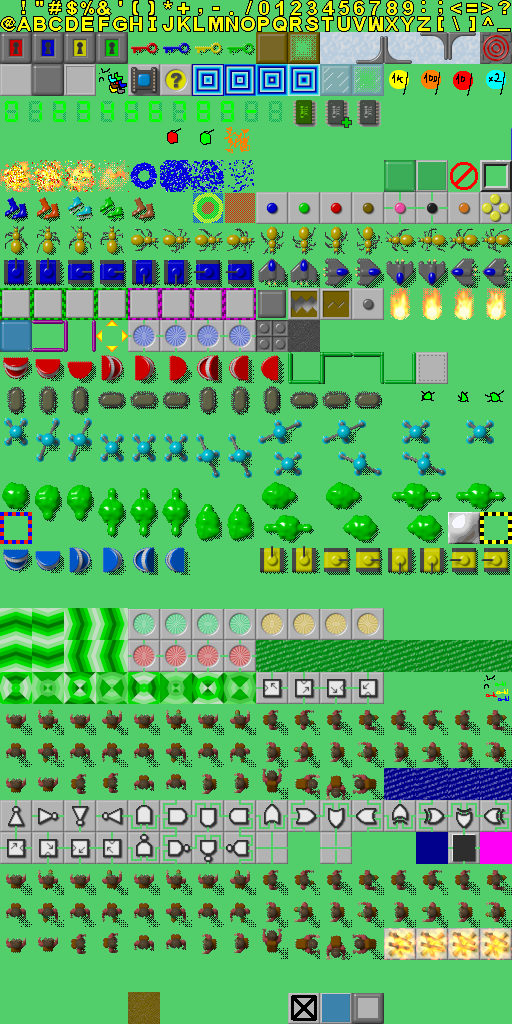
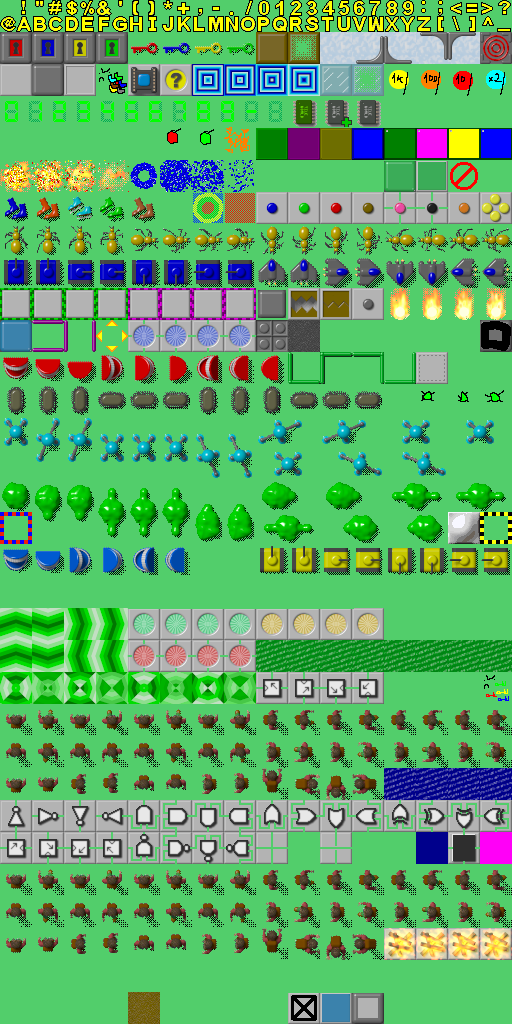
Add custom walls and floors

Changed region(s): [[0.5, 0.125, 1.0, 0.1875], [0.9375, 0.3125, 1.0, 0.3438]]

diff --git a/src/actors/walls.ts b/src/actors/walls.ts
@@ -17,6 +17,33 @@ export class Wall extends Actor {
 
 actorDB["wall"] = Wall
 
+// TODO Ghost blockage, TNT resistance
+export class SteelWall extends Actor {
+	id = "steelWall"
+	art: ActorArt = { actorName: "steelWall" }
+	get layer(): Layers {
+		return Layers.STATIONARY
+	}
+	blocks(): boolean {
+		return true
+	}
+}
+
+actorDB["steelWall"] = SteelWall
+
+export class CustomWall extends Actor {
+	id = "customWall"
+	art: ActorArt = { actorName: "customWall", animation: this.customData }
+	get layer(): Layers {
+		return Layers.STATIONARY
+	}
+	blocks(): boolean {
+		return true
+	}
+}
+
+actorDB["customWall"] = CustomWall
+
 function doorFactory(color: string) {
 	const sentenceCaseName =
 		color[0].toUpperCase() + color.substr(1).toLowerCase()

diff --git a/src/actors/terrain.ts b/src/actors/terrain.ts
@@ -38,6 +38,16 @@ export class LetterTile extends Actor {
 
 actorDB["letterTile"] = LetterTile
 
+export class CustomFloor extends Actor {
+	id = "customFloor"
+	art: ActorArt = { actorName: "customFloor", animation: this.customData }
+	get layer(): Layers {
+		return Layers.STATIONARY
+	}
+}
+
+actorDB["customFloor"] = CustomFloor
+
 export class Ice extends Actor {
 	id = "ice"
 	tags = ["ice"]
@@ -507,6 +517,8 @@ export class GreenBomb extends Actor {
 	) {
 		super(level, position, customData)
 		level.chipsTotal++
+		level.chipsLeft++
+		level.chipsRequired++
 	}
 	get layer(): Layers {
 		return Layers.ITEM // Yes

diff --git a/src/cc2ImageFormat.ts b/src/cc2ImageFormat.ts
@@ -82,6 +82,18 @@ const cc2ImageFormat: CC2ImageFormat = {
 		iceBlock: { default: [10, 2], seeThrough: [11, 2] },
 		bonusFlag: { 1000: [12, 2], 100: [13, 2], 10: [14, 2], "*2": [15, 2] },
 		echipGreen: [9, 3],
+		customFloor: {
+			green: [8, 4],
+			pink: [9, 4],
+			yellow: [10, 4],
+			blue: [11, 4],
+		},
+		customWall: {
+			green: [12, 4],
+			pink: [13, 4],
+			yellow: [14, 4],
+			blue: [15, 4],
+		},
 		echip: [11, 3],
 		// TODO Add all art left
 		boom: [
